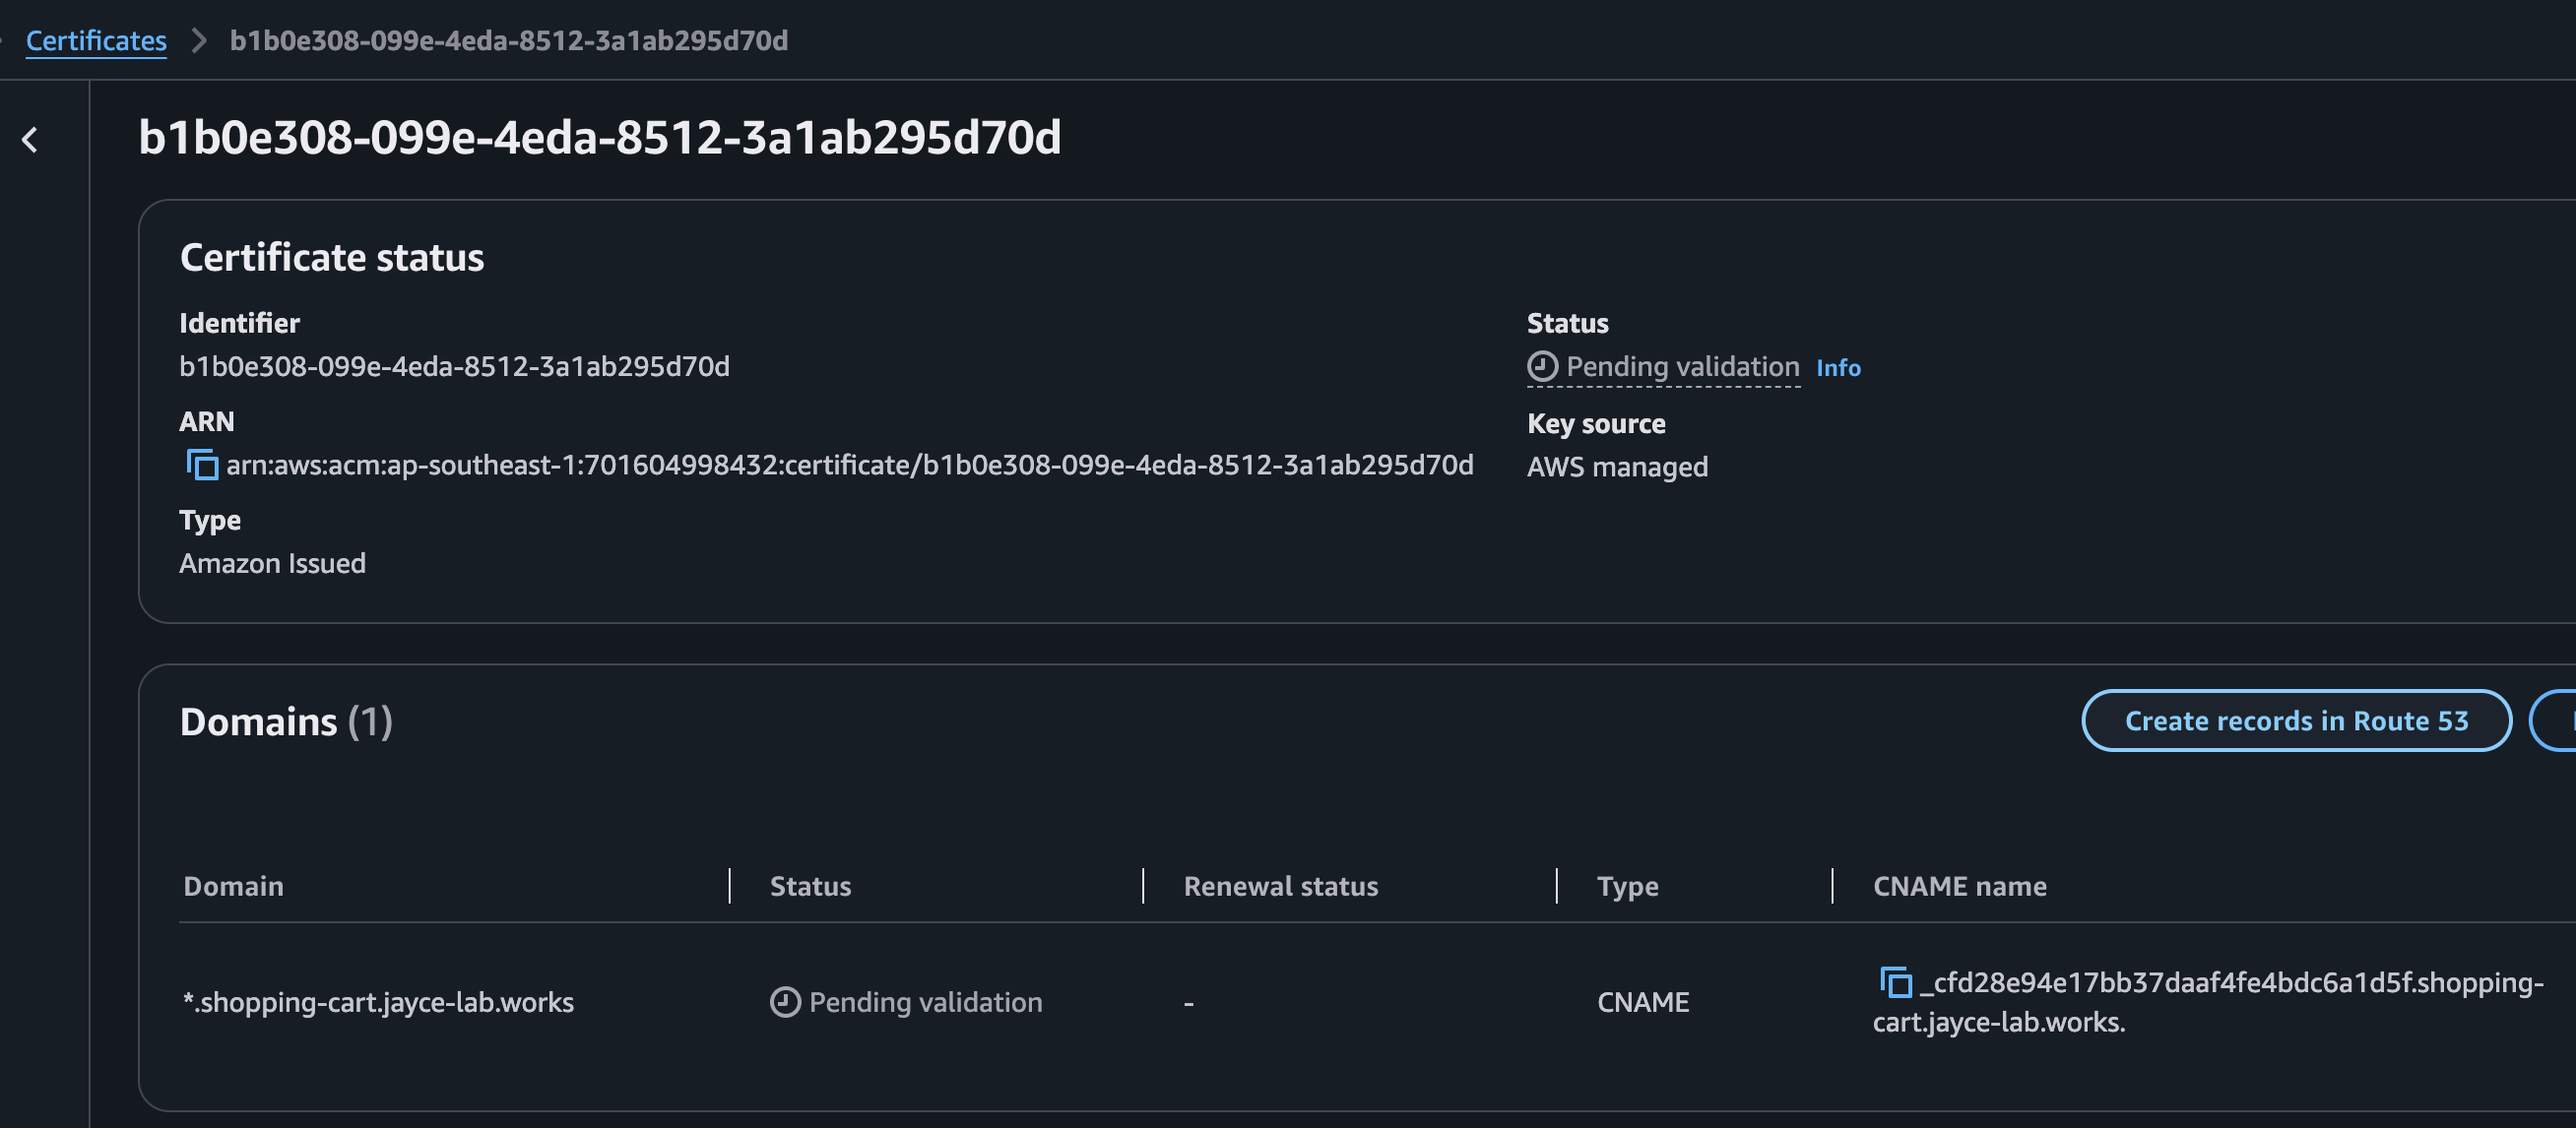
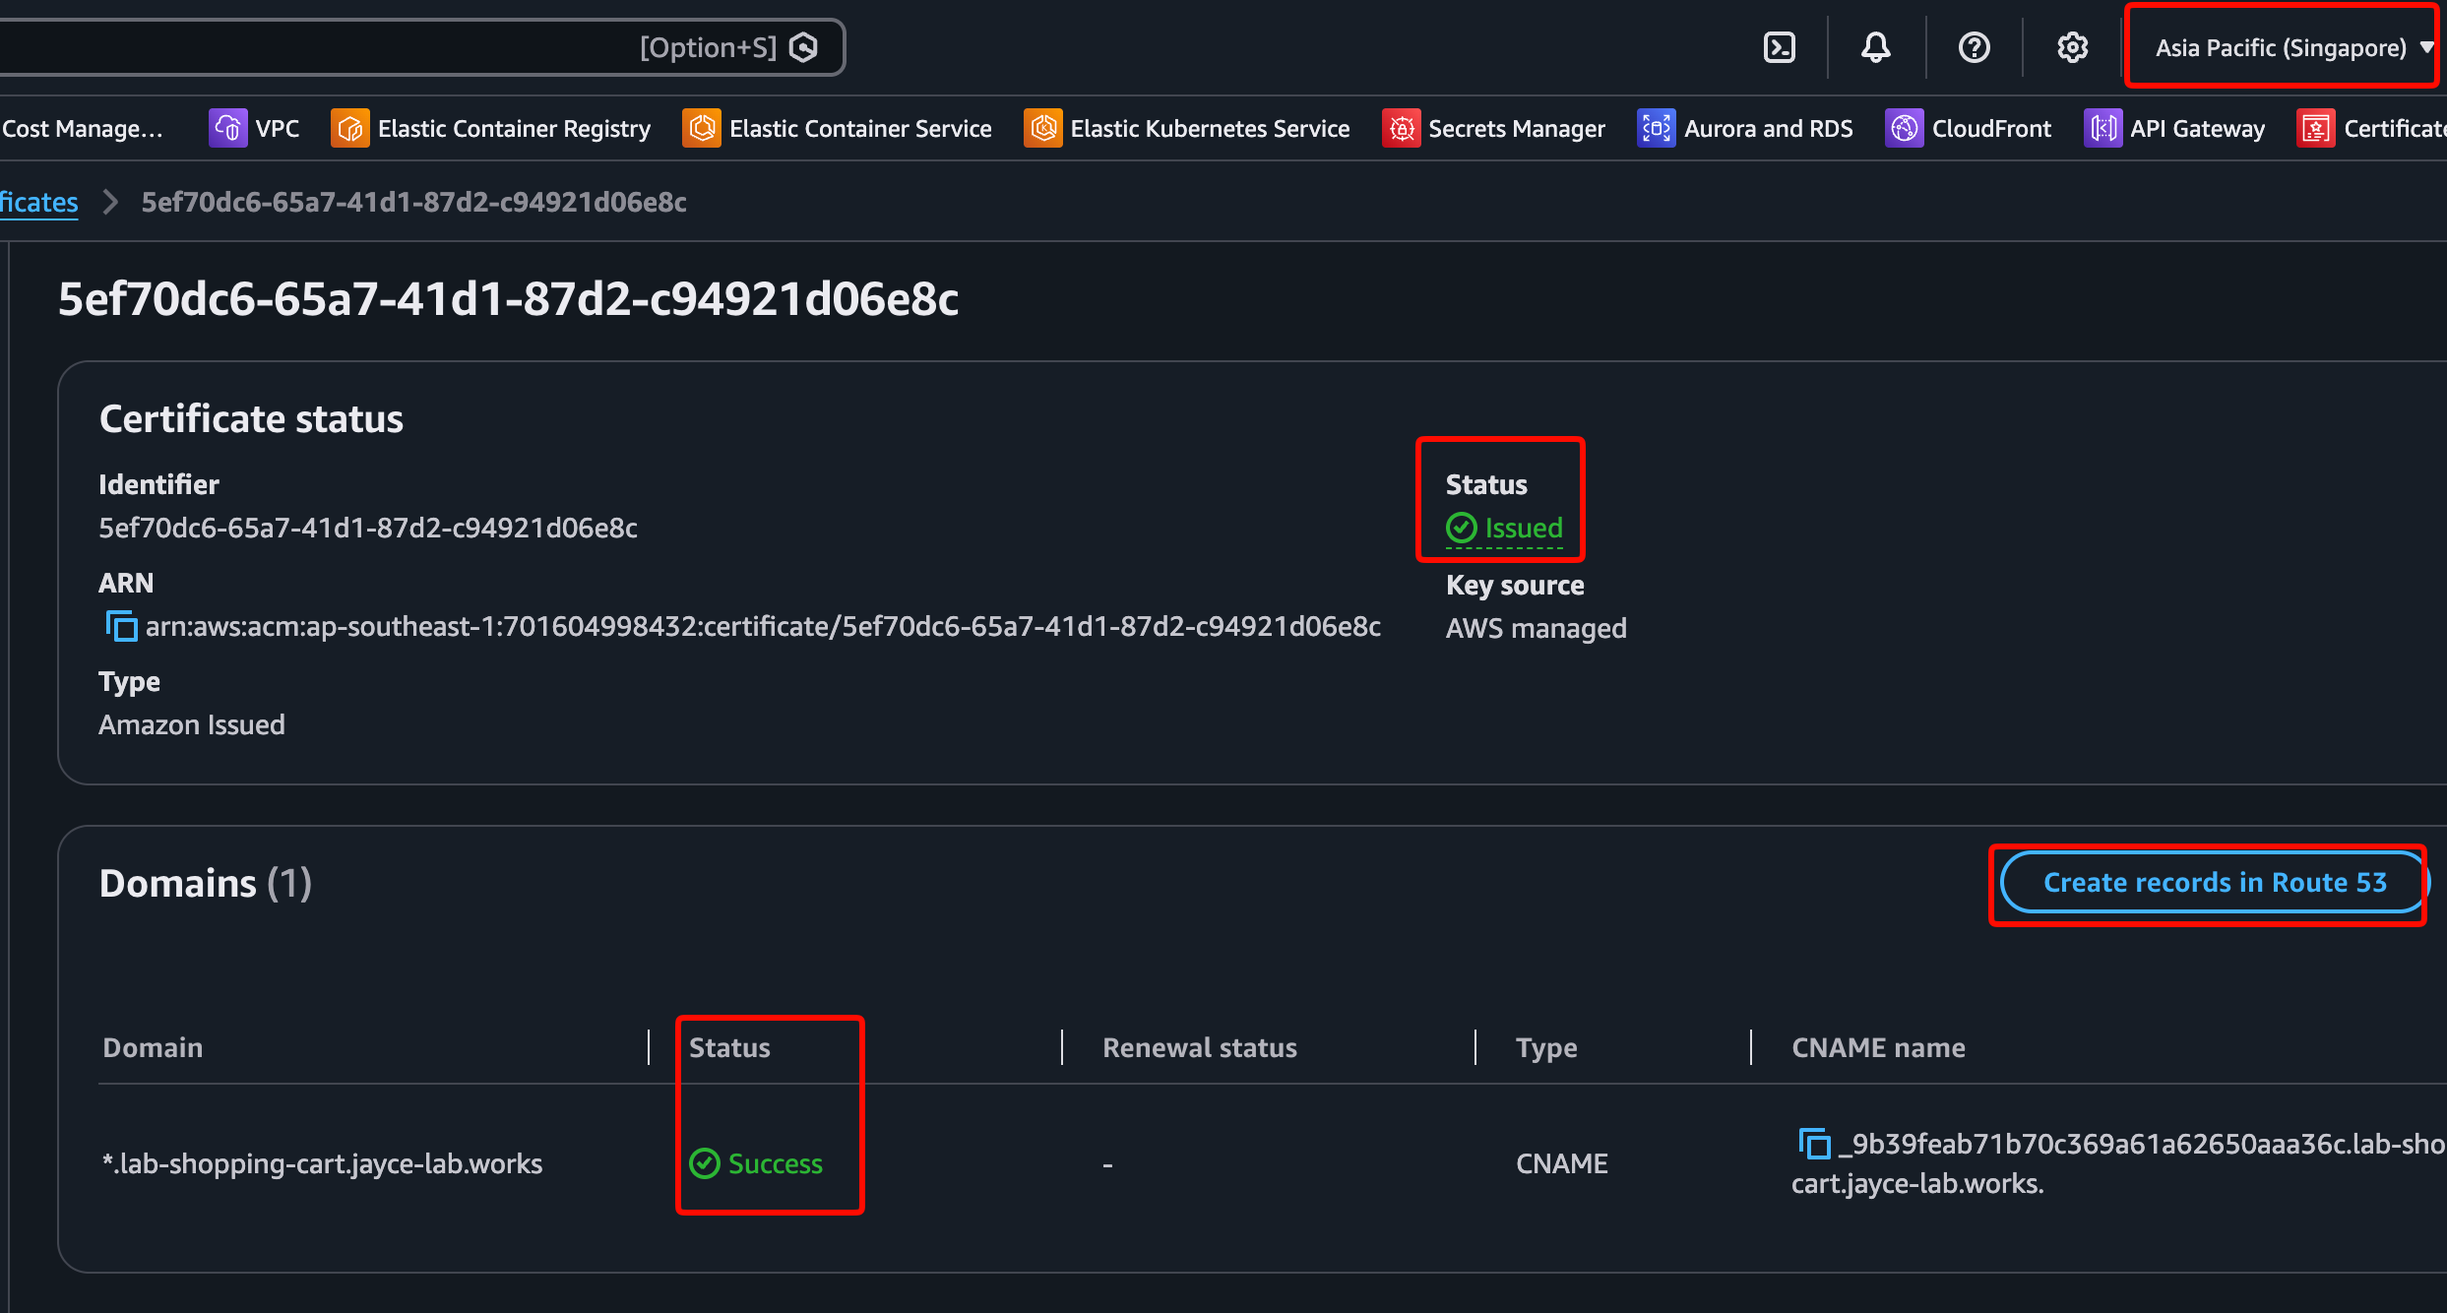
Update

diff --git a/README.md b/README.md
@@ -192,13 +192,11 @@ terraform apply --target=module.acm
 
 - In the ALB certificate, choose **Create record in Route53**.
 
-<img src="docs/images/image14.png" alt="Create ACM DNS validation record" width="800" />
+- Wait until the domain transfer completes for both ALB and CloudFront certificates to validate successfully (about 15–30 minutes).
 
-- Wait until the domain transfer completes and both certificates validate successfully (about 15–30 minutes).
+<img src="docs/images/image14.png" alt="Validated ACM certificates" width="800" />
 
-<img src="docs/images/image15.png" alt="Validated ACM certificates" width="800" />
-
-<img src="docs/images/image16.png" alt="Validated domain status" width="800" />
+<img src="docs/images/image15.png" alt="Validated domain status" width="800" />
 
 ### 3. Deploy the rest of the services
 
